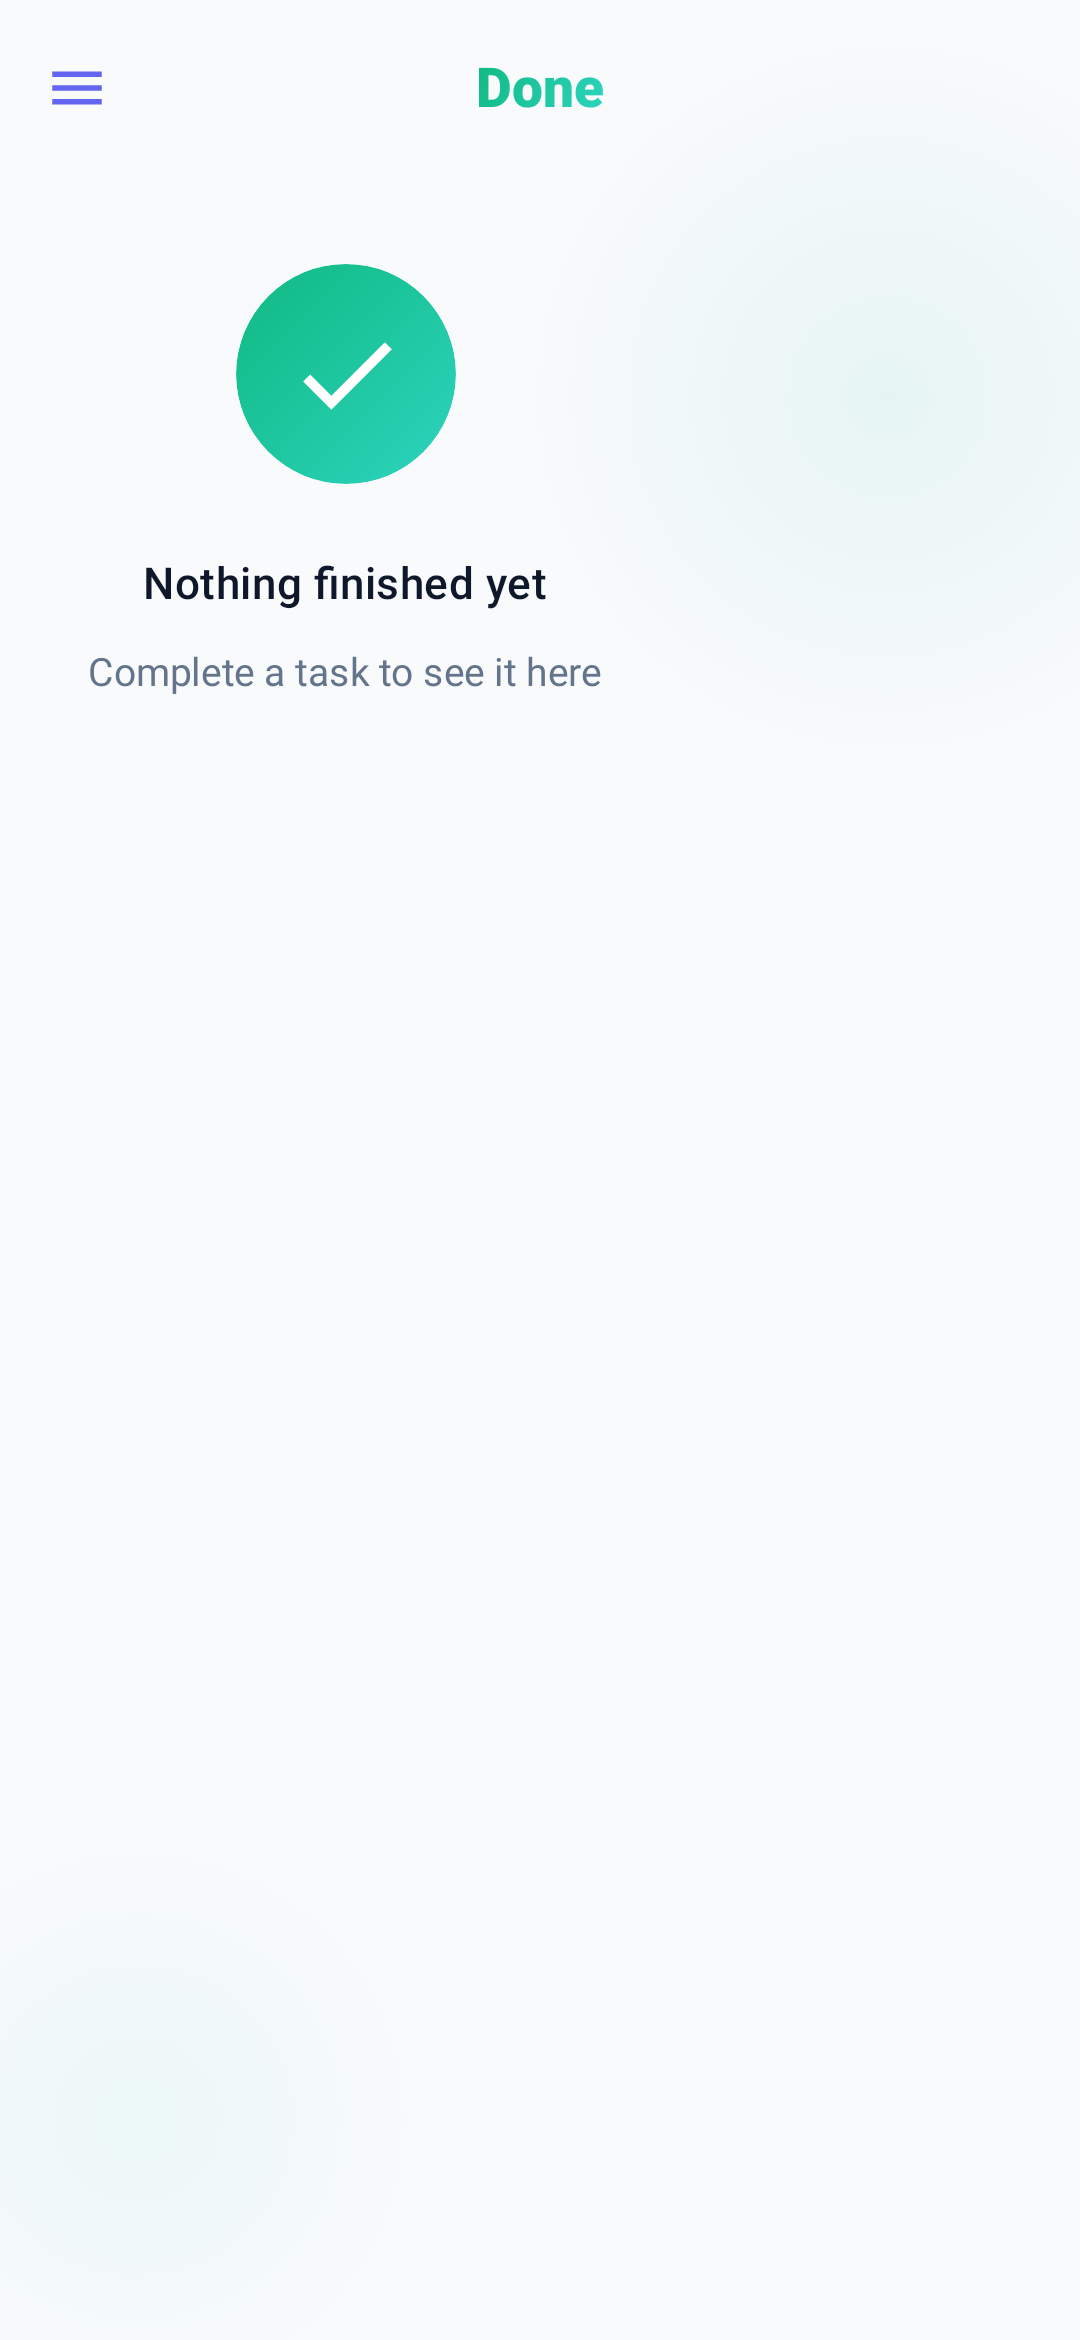
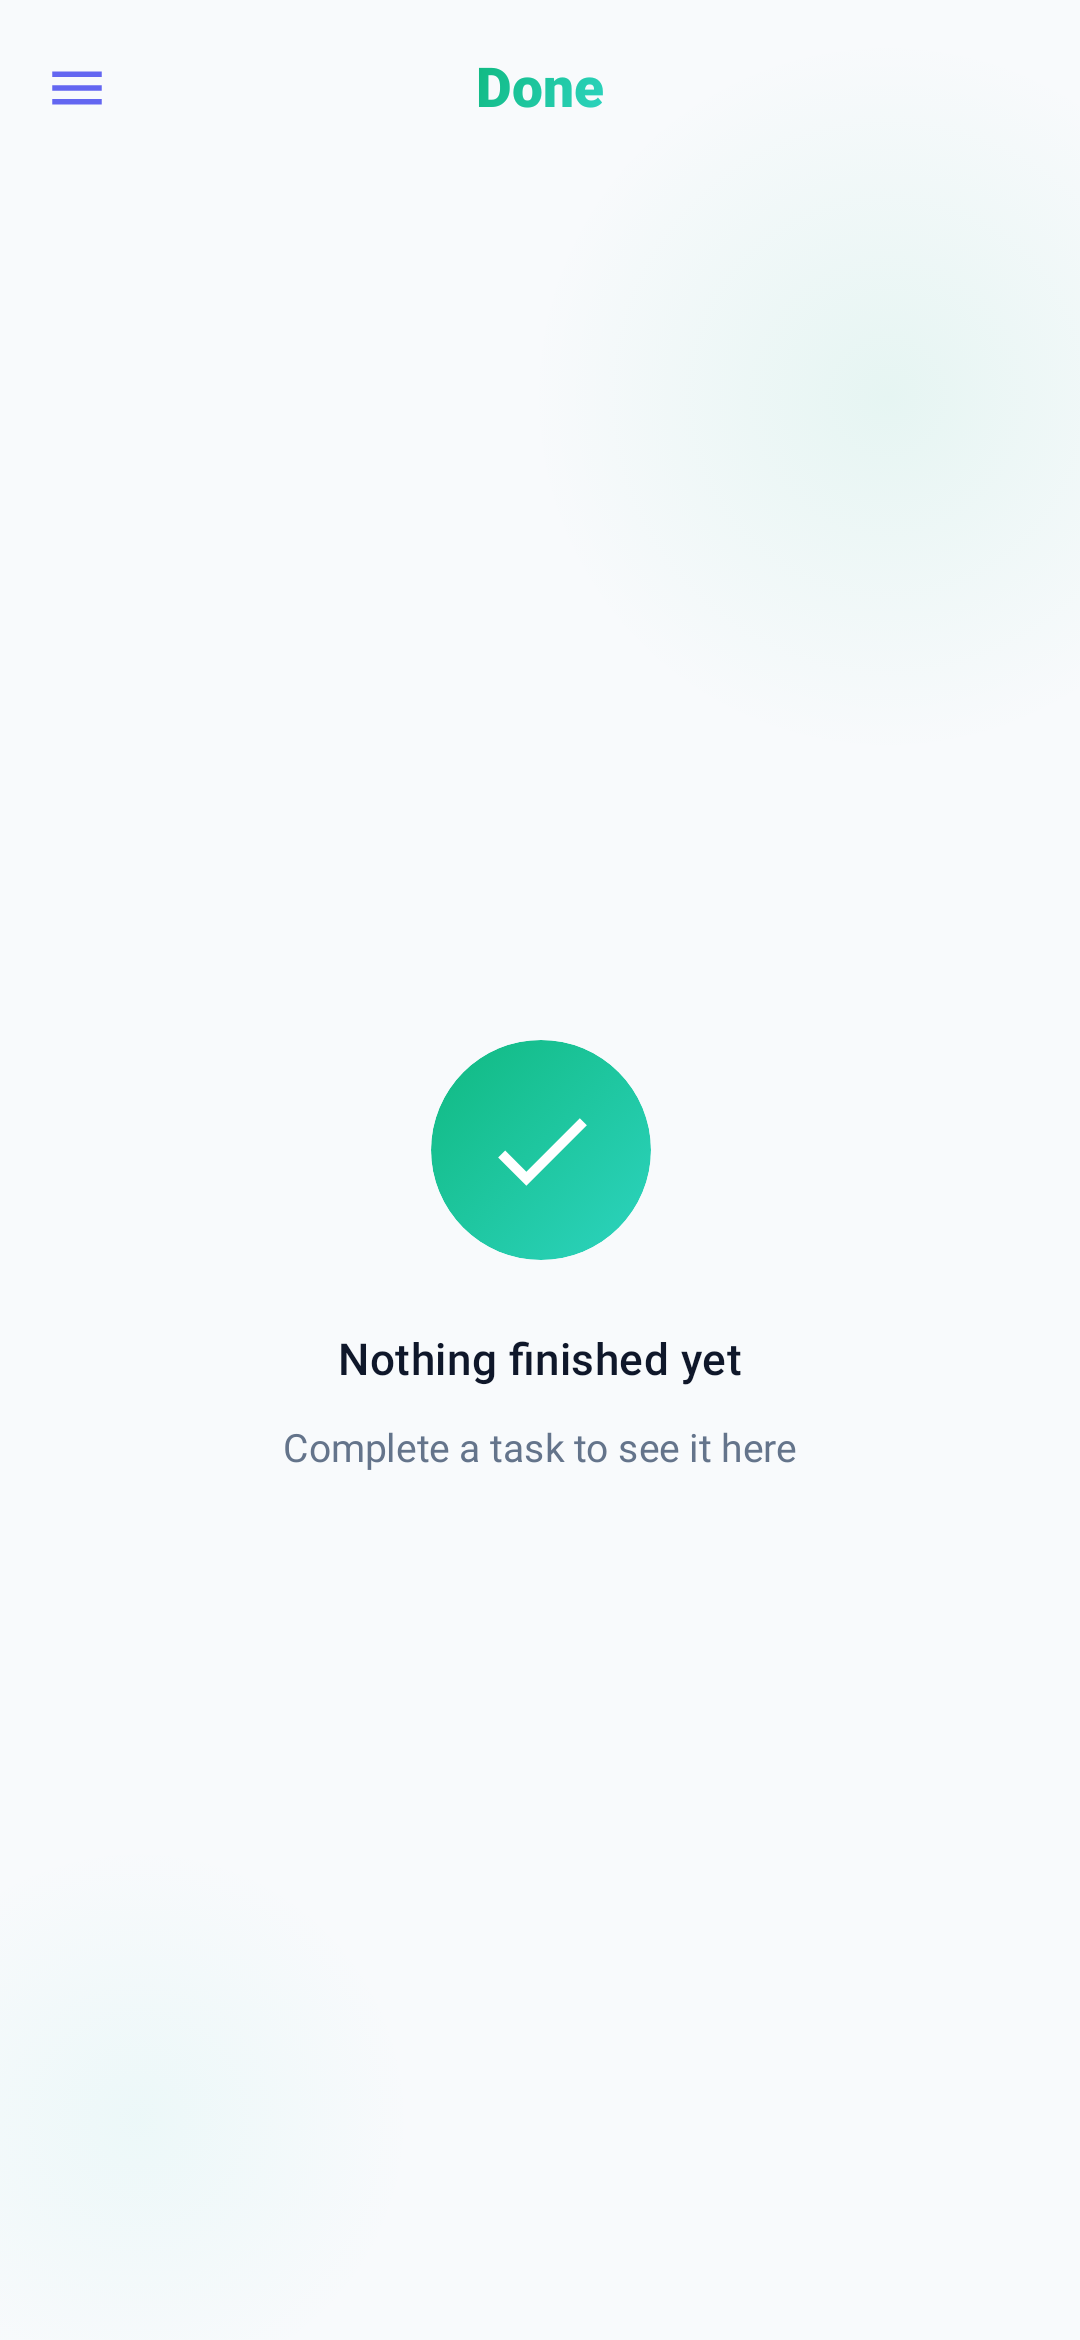
fix(ui): vertically center empty state on DoneScreen and update screenshot goldens

diff --git a/app/src/main/java/io/mns/base/app/ui/screens/DoneScreen.kt b/app/src/main/java/io/mns/base/app/ui/screens/DoneScreen.kt
@@ -62,7 +62,8 @@ fun DoneScreen(
 @Composable
 fun DoneScreenContent(
     items: List<DoneItem>,
-    onSettingsClick: () -> Unit = {}
+    onSettingsClick: () -> Unit = {},
+    animate: Boolean = true
 ) {
     Scaffold(
         containerColor = MaterialTheme.colorScheme.background,
@@ -121,7 +122,12 @@ fun DoneScreenContent(
             )
 
             if (items.isEmpty()) {
-                DoneEmptyState(modifier = Modifier.align(Alignment.Center))
+                Box(
+                    modifier = Modifier.fillMaxSize(),
+                    contentAlignment = Alignment.Center
+                ) {
+                    DoneEmptyState(animate = animate)
+                }
             } else {
                 LazyColumn(
                     modifier = Modifier.fillMaxSize(),
@@ -138,19 +144,25 @@ fun DoneScreenContent(
 }
 
 @Composable
-private fun DoneEmptyState(modifier: Modifier = Modifier) {
-    var visible by remember { mutableStateOf(false) }
-    LaunchedEffect(Unit) { visible = true }
+fun DoneEmptyState(
+    modifier: Modifier = Modifier,
+    animate: Boolean = true
+) {
+    var visible by remember { mutableStateOf(!animate) }
+    LaunchedEffect(Unit) {
+        if (animate) visible = true
+    }
 
     AnimatedVisibility(
-        visible = visible,
+        modifier = modifier,
+        visible = visible || !animate,
         enter = fadeIn(tween(400)) + scaleIn(
             initialScale = 0.85f,
             animationSpec = spring(dampingRatio = Spring.DampingRatioMediumBouncy)
         )
     ) {
         Column(
-            modifier = modifier.padding(32.dp),
+            modifier = Modifier.padding(32.dp),
             horizontalAlignment = Alignment.CenterHorizontally,
             verticalArrangement = Arrangement.spacedBy(10.dp)
         ) {

diff --git a/app/src/test/java/io/mns/base/app/ui/screenshot/ComposeScreenshotsTest.kt b/app/src/test/java/io/mns/base/app/ui/screenshot/ComposeScreenshotsTest.kt
@@ -136,7 +136,8 @@ class ComposeScreenshotsTest {
         composeTestRule.setContent {
             MTodoTheme(darkTheme = false) {
                 DoneScreenContent(
-                    items = emptyList()
+                    items = emptyList(),
+                    animate = false
                 )
             }
         }
